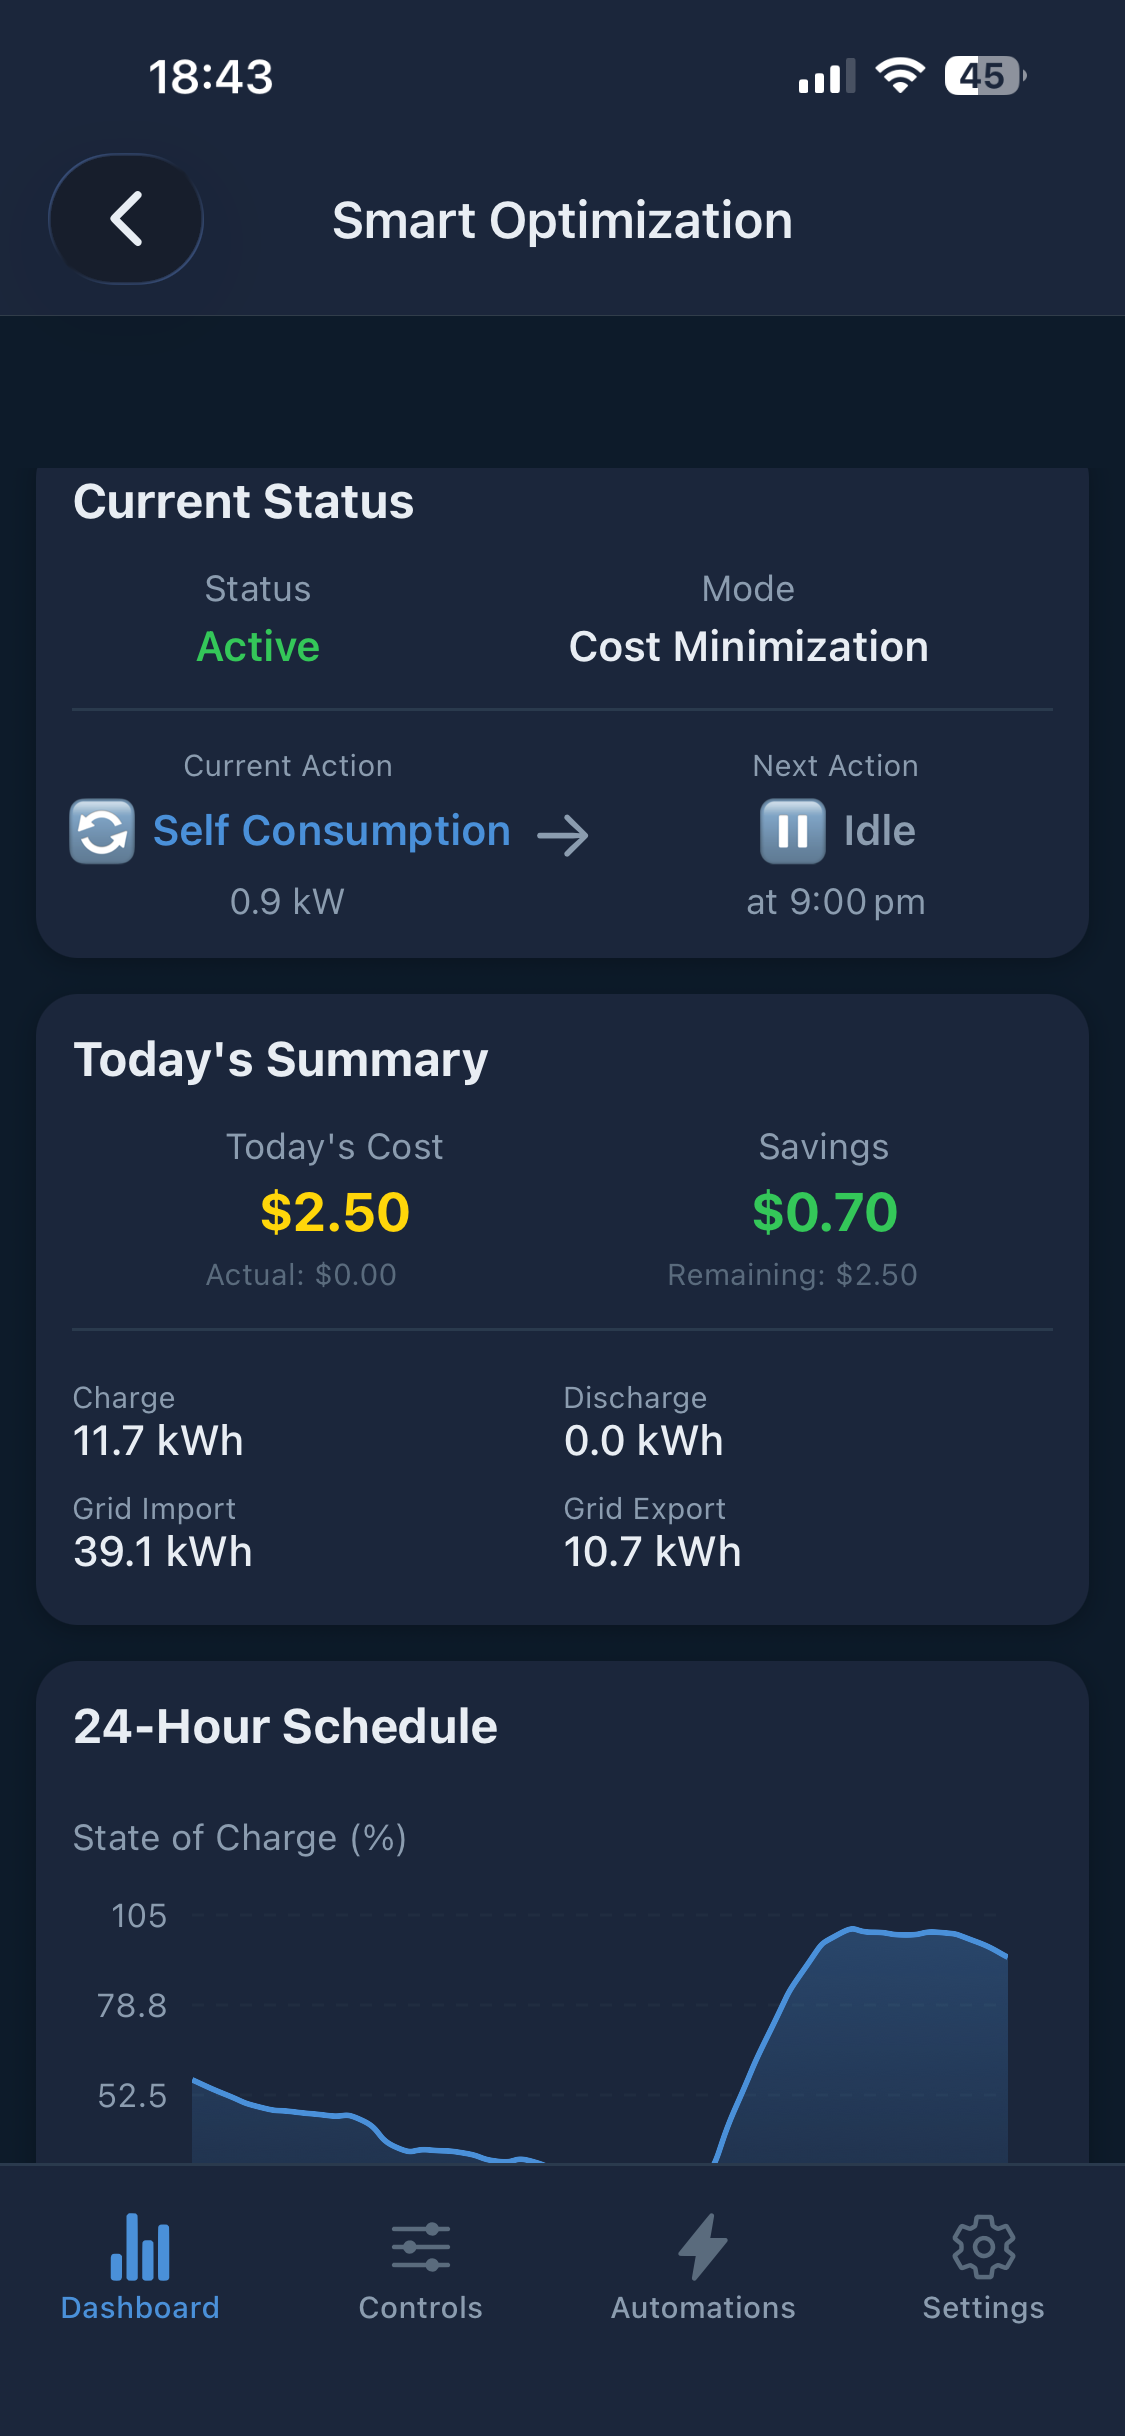
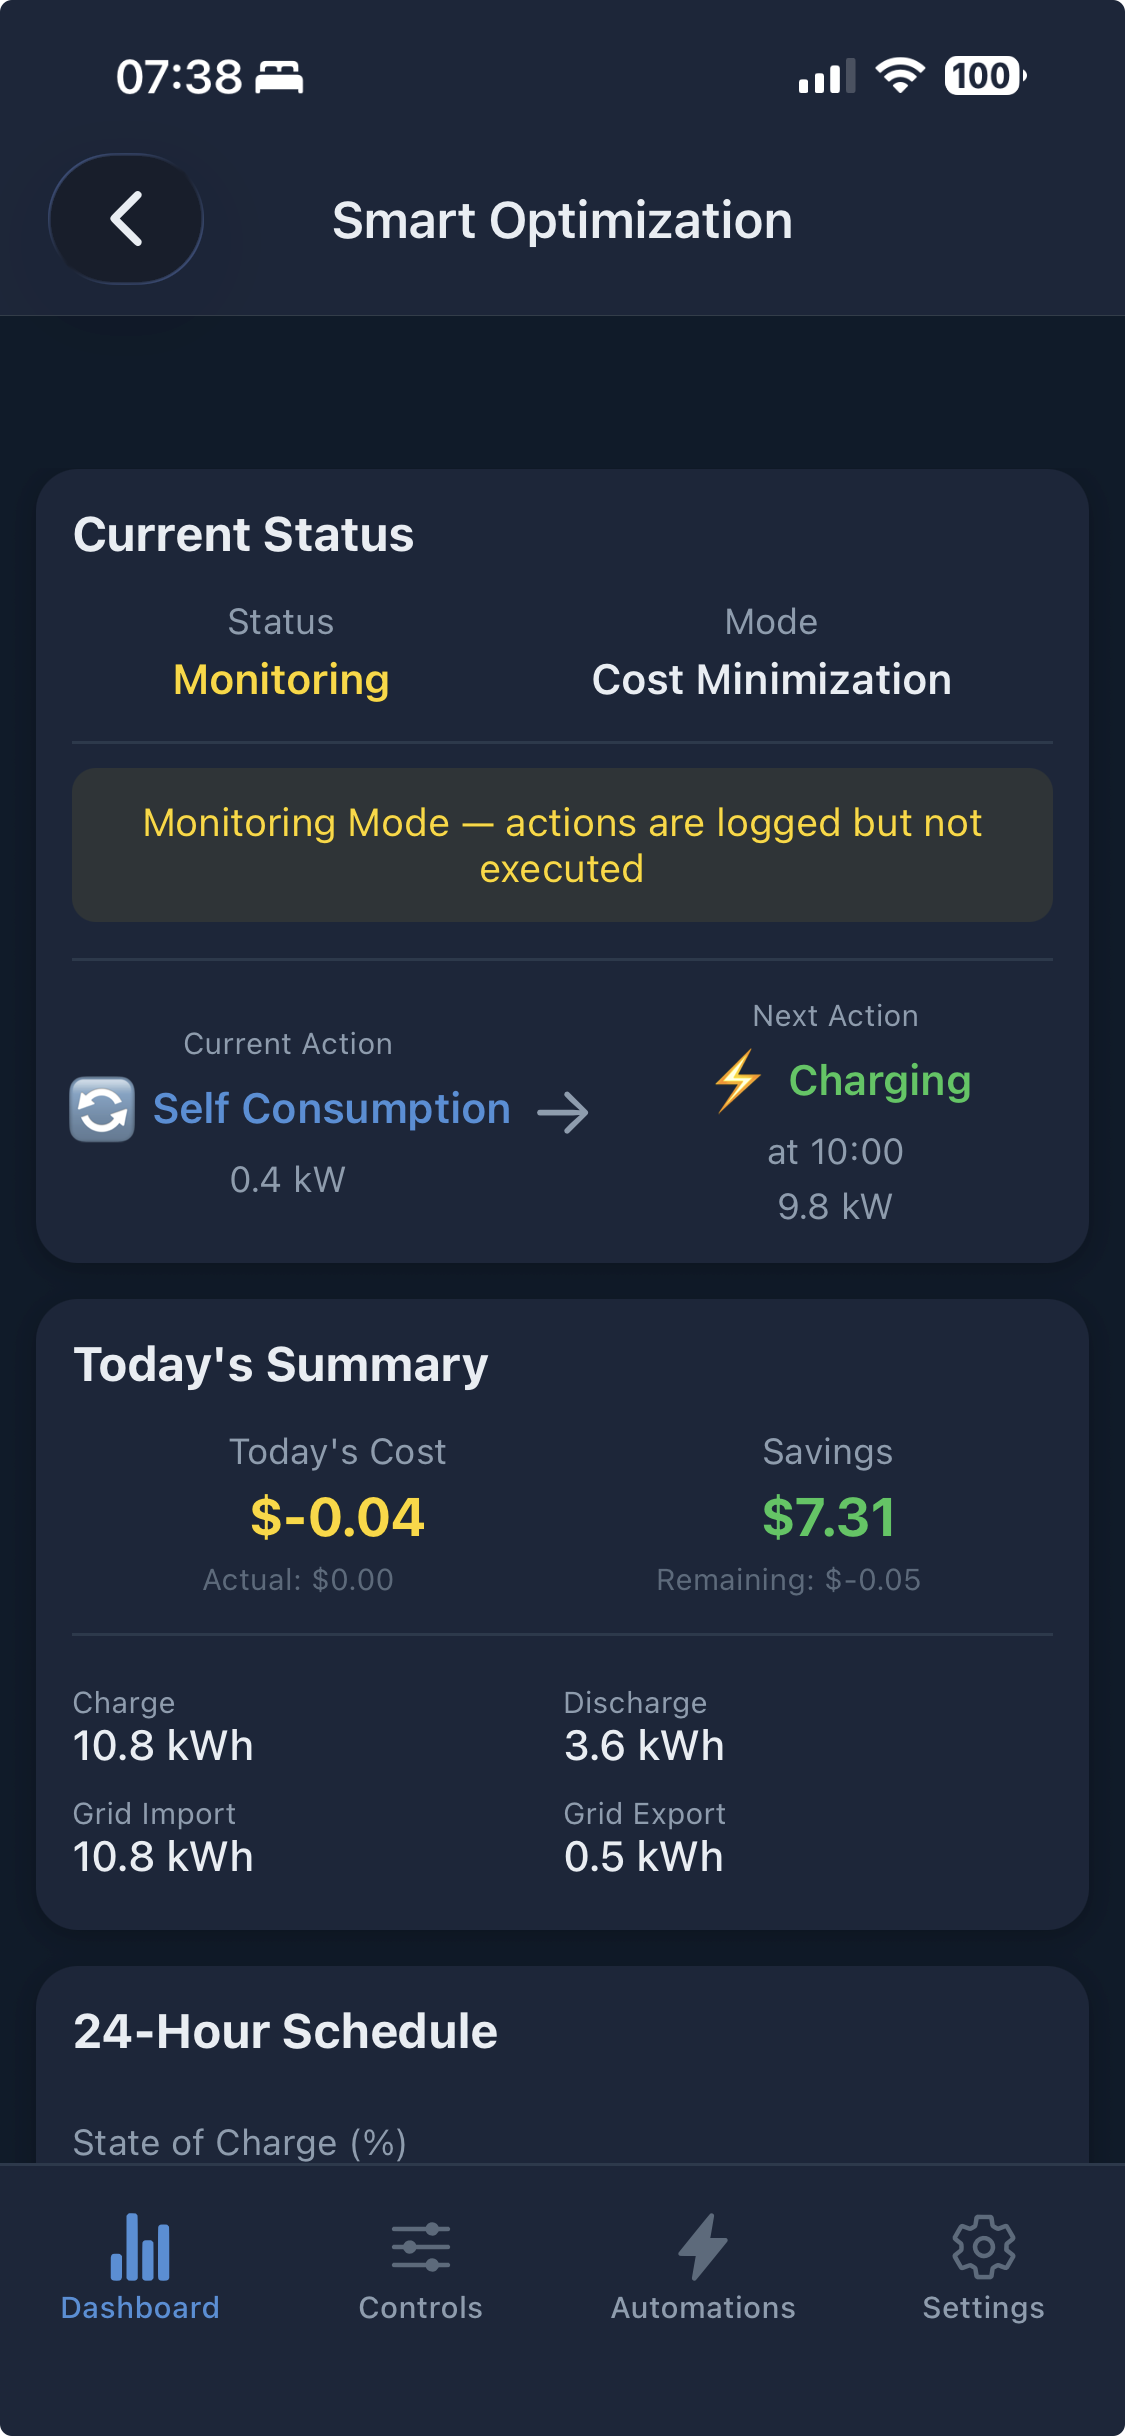
Refresh mobile app screenshots in README
Replace the 9 outdated app screenshots with 6 current ones from the newest
PowerSync Mobile build. The new layout shows the hero dashboard, Smart
Optimization summary, 24-hour LP action plan, TOU/price forecast chart,
EV charging, and the settings hub — in two rows of three phones each.

Files removed:
  app-dashboard.png, app-dashboard-flow.png, app-optimization-plan.png,
  app-optimization-schedule.png, app-provider.png, app-provider-optimization.png

Files added:
  app-hero.png, app-action-plan.png, app-price-chart.png

Files replaced with newer versions of the same screen:
  app-optimization.png, app-settings.png

diff --git a/README.md b/README.md
@@ -131,19 +131,14 @@ Remote monitoring and control via iOS and Android.
 - **Demo Mode** — Try the app without a Home Assistant connection using simulated data
 
 <p align="center">
-  <img src="docs/images/app-dashboard.png" alt="Dashboard" width="200"/>
-  <img src="docs/images/app-dashboard-flow.png" alt="Power Flow" width="200"/>
-  <img src="docs/images/app-optimization.png" alt="Smart Optimization" width="200"/>
+  <img src="docs/images/app-hero.png" alt="Dashboard — live energy flow" width="200"/>
+  <img src="docs/images/app-optimization.png" alt="Smart Optimization summary" width="200"/>
+  <img src="docs/images/app-action-plan.png" alt="24-hour LP action plan" width="200"/>
 </p>
 <p align="center">
-  <img src="docs/images/app-optimization-schedule.png" alt="24-Hour Schedule" width="200"/>
-  <img src="docs/images/app-optimization-plan.png" alt="Action Plan" width="200"/>
+  <img src="docs/images/app-price-chart.png" alt="TOU schedule and price forecast" width="200"/>
   <img src="docs/images/app-ev-charging.png" alt="EV Charging" width="200"/>
-</p>
-<p align="center">
   <img src="docs/images/app-settings.png" alt="Settings" width="200"/>
-  <img src="docs/images/app-provider.png" alt="Provider Settings" width="200"/>
-  <img src="docs/images/app-provider-optimization.png" alt="Optimization Settings" width="200"/>
 </p>
 
 ---